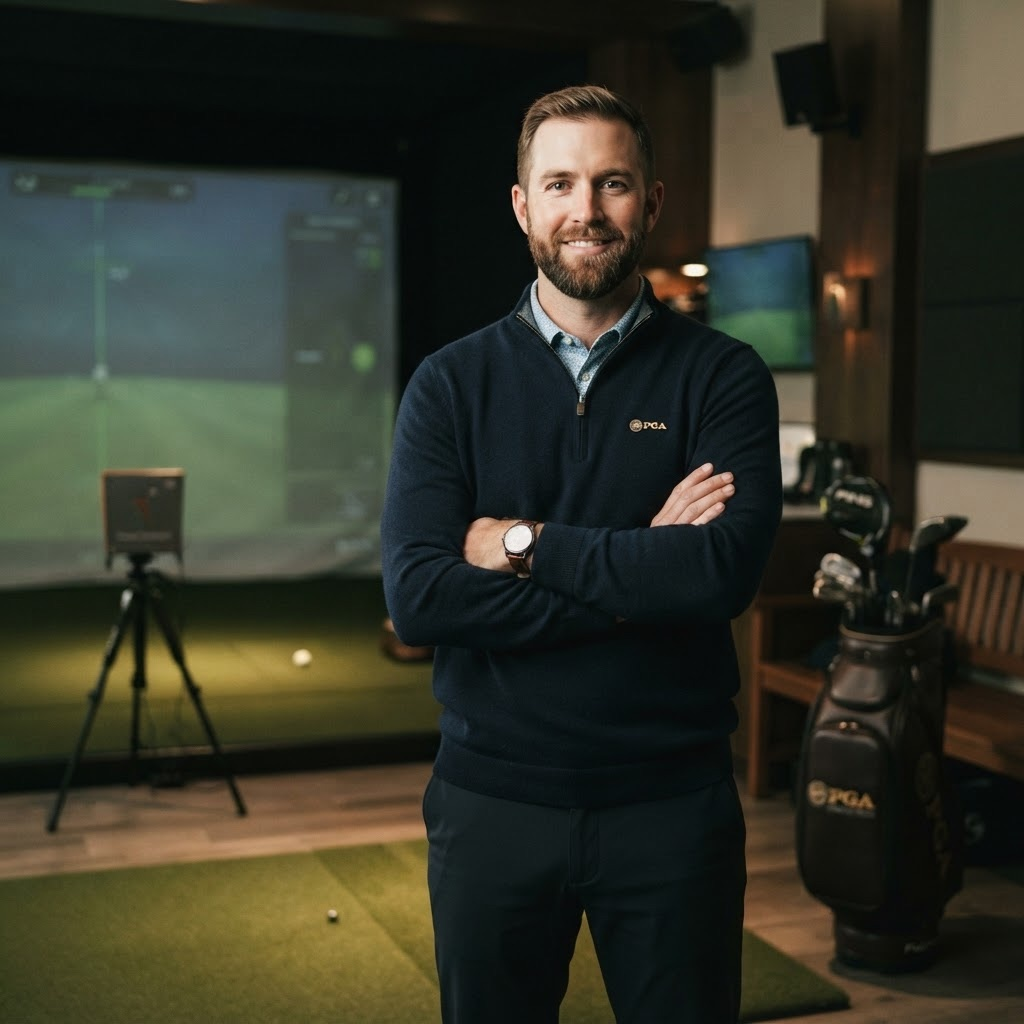
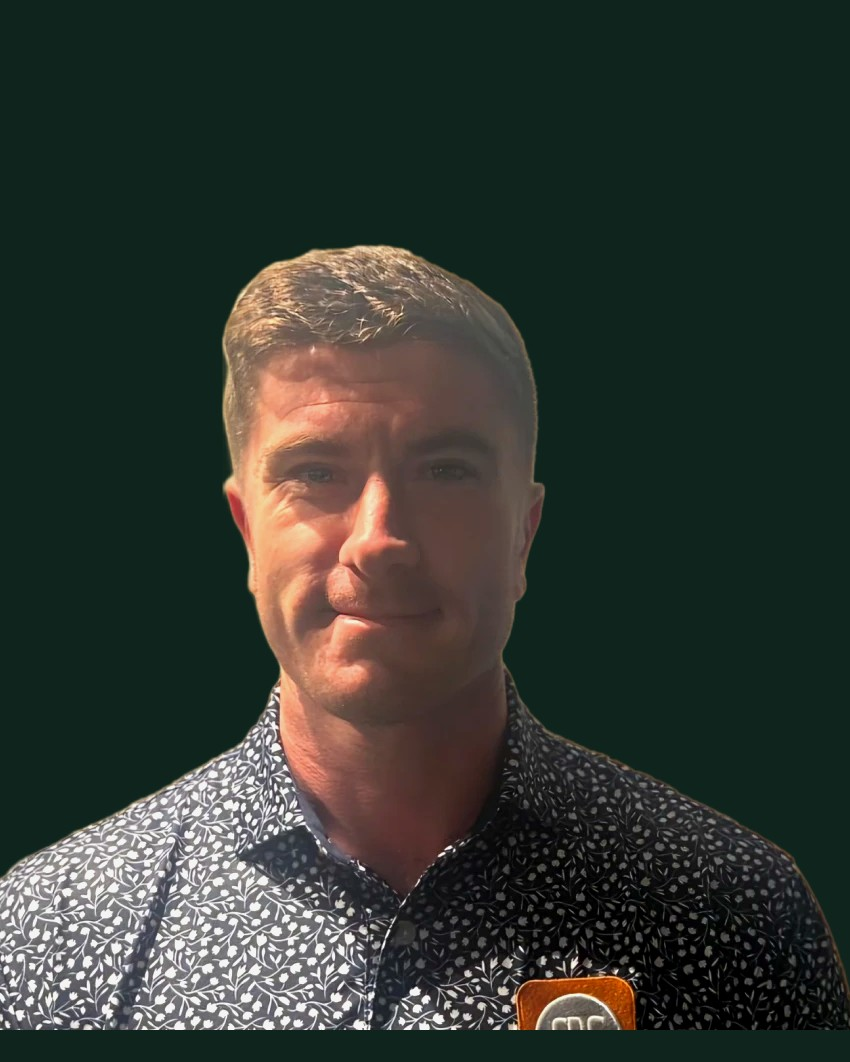
Add real Sam portrait and TrackMan studio photos
- About page: replace with Sam's real headshot, composited onto the
  brand background color rather than left as a raw transparent cutout
- Fitting page: replace generic club-heads image with a real photo of
  the actual TrackMan studio bay
- Remove now-unused fitting.jpg

diff --git a/src/pages/Fitting.jsx b/src/pages/Fitting.jsx
@@ -85,9 +85,9 @@ export default function Fitting() {
 
             <div
               className="reveal rounded-2xl overflow-hidden h-64 md:h-[26rem] bg-cover bg-center border border-ink/10"
-              style={{ backgroundImage: "url('/images/fitting.jpg')" }}
+              style={{ backgroundImage: "url('/images/trackman-studio.jpg')" }}
               role="img"
-              aria-label="Premium golf club heads laid out for a custom fitting"
+              aria-label="Sam Craigon's TrackMan fitting studio, showing the simulator bay and launch monitor display"
             />
           </div>
         </div>
